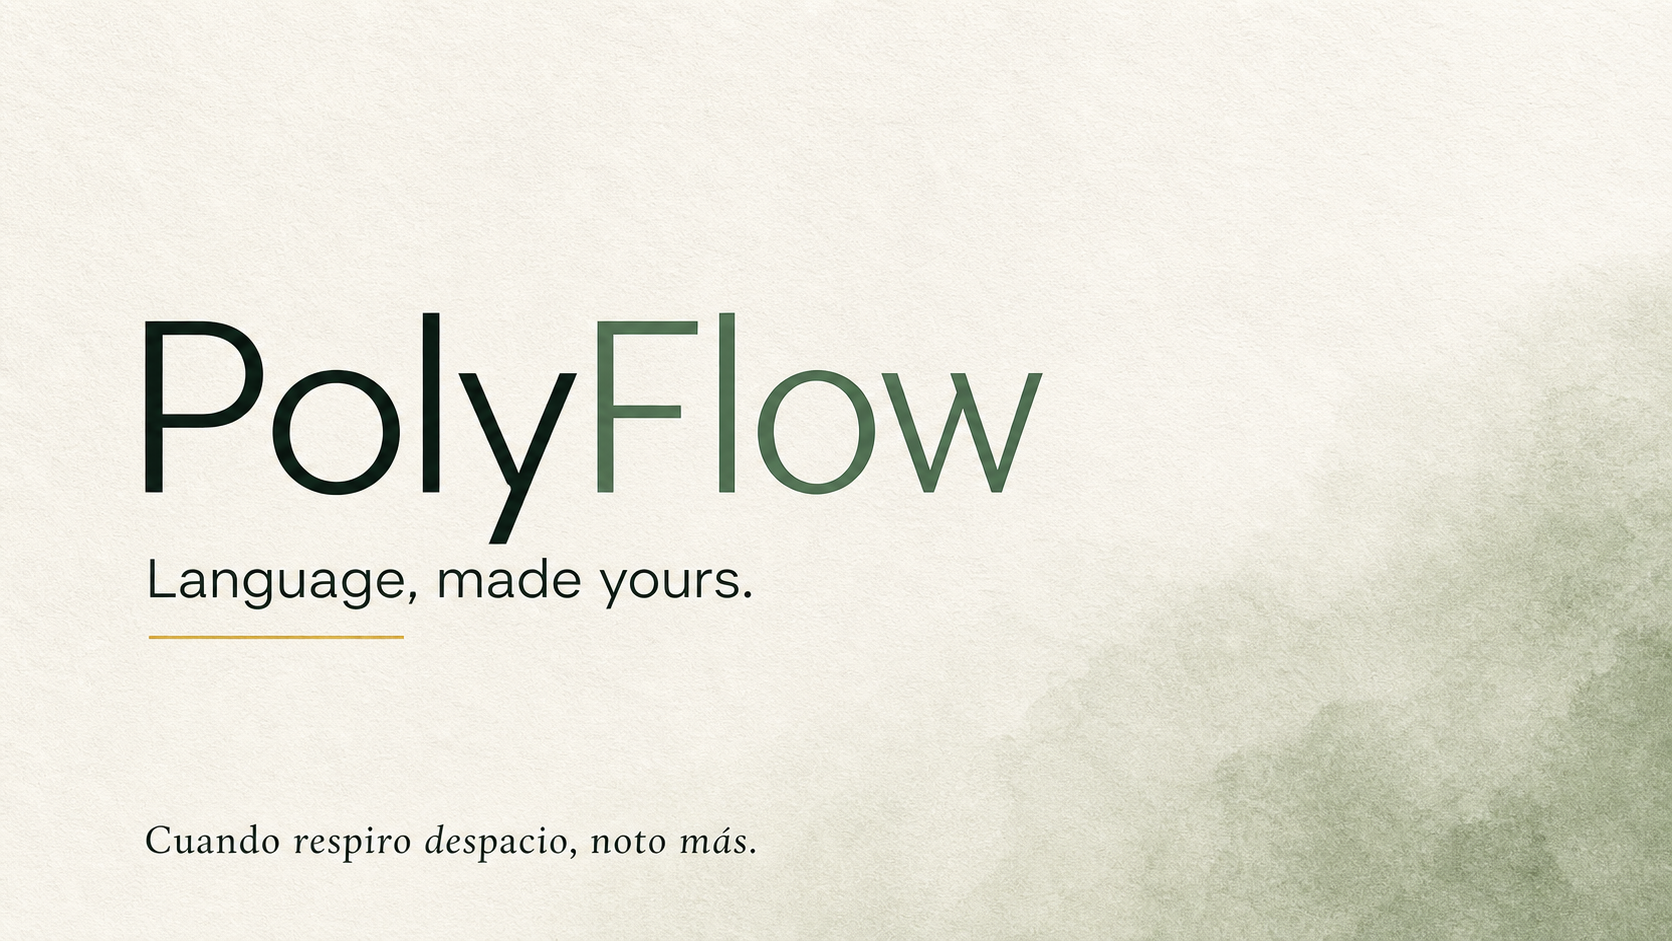
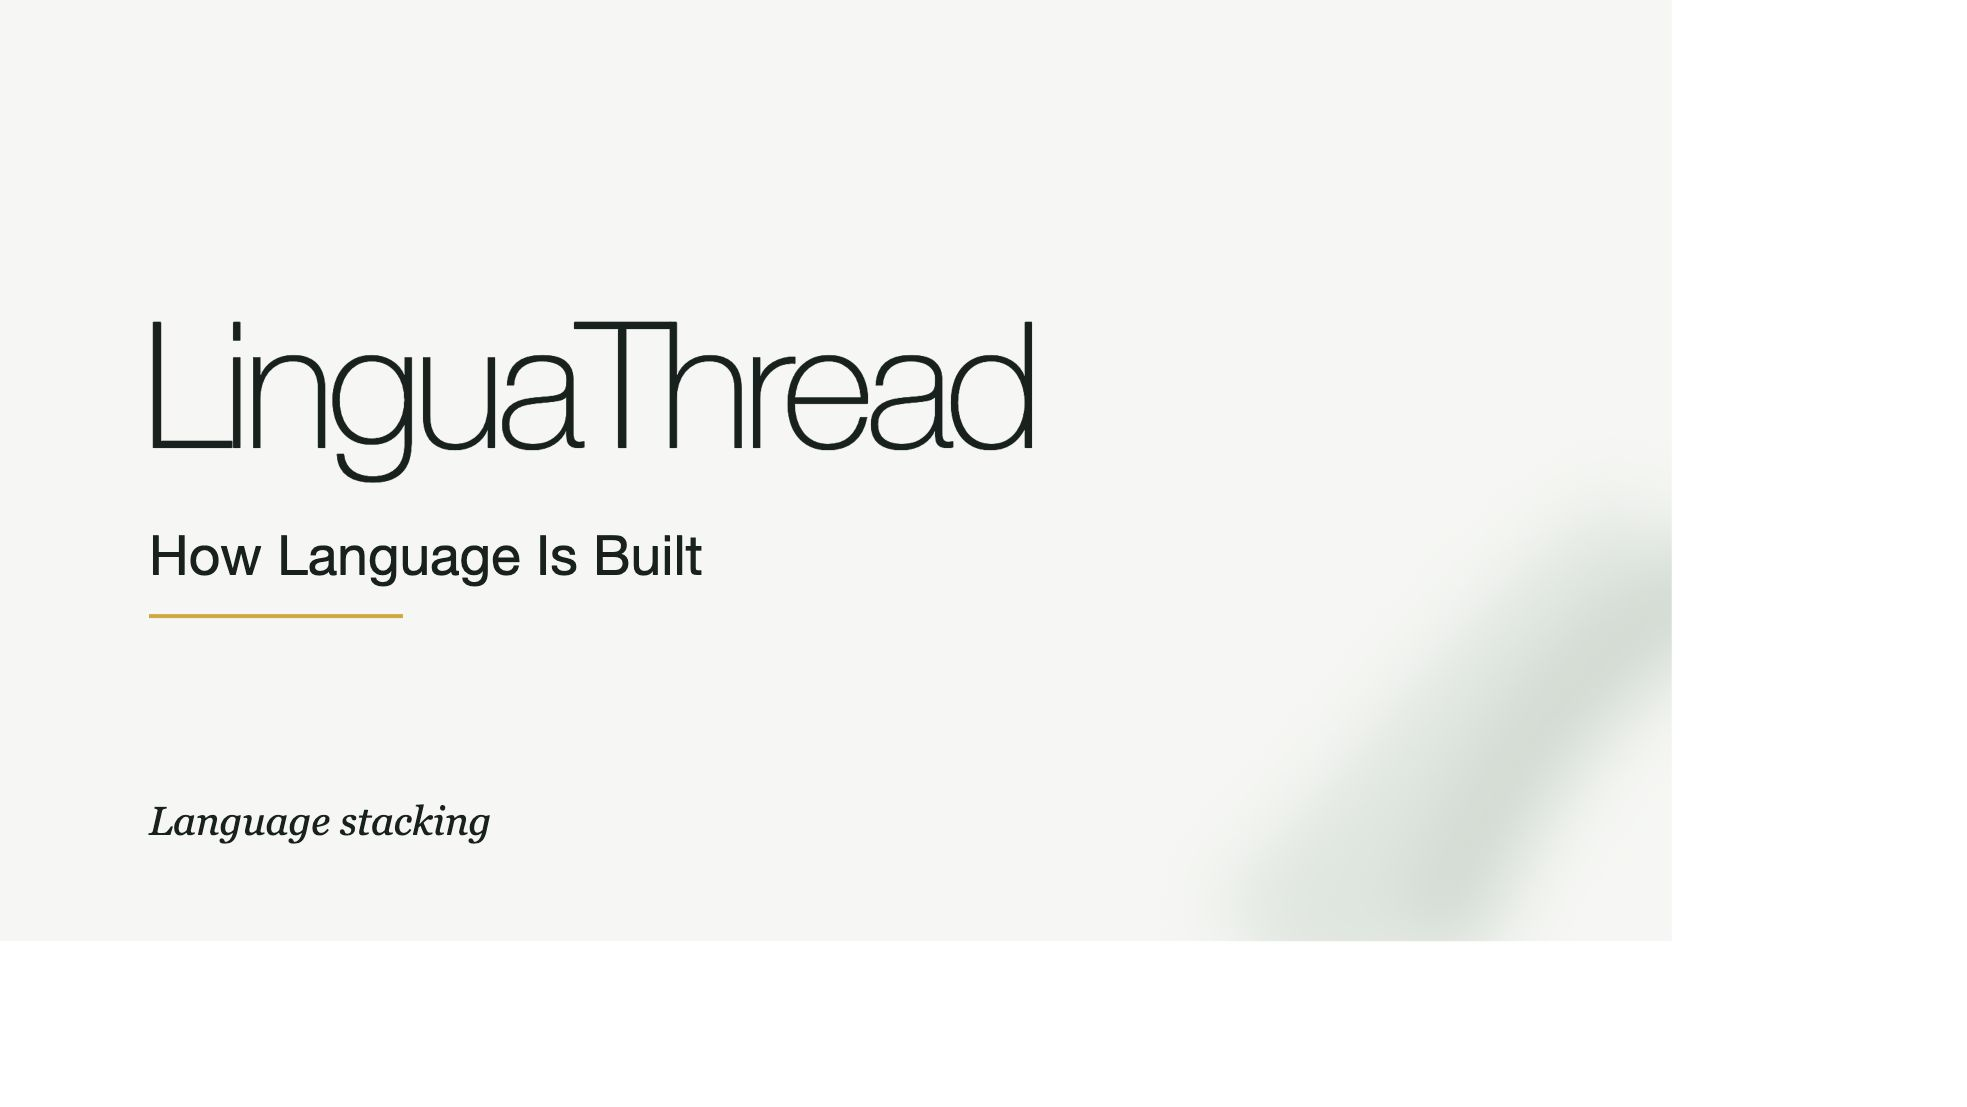
Rename PolyFlow to LinguaThread

diff --git a/app/page.tsx b/app/page.tsx
@@ -267,7 +267,7 @@ function Lesson({ profile, onEditLanguages }: { profile: LanguageProfile; onEdit
   return (
     <main className={`app-shell stage-${stage}`}>
       <header className="topline">
-        <button className="wordmark" onClick={() => resetLesson()} aria-label="Restart lesson">PolyFlow</button>
+        <button className="wordmark" onClick={() => resetLesson()} aria-label="Restart lesson">LinguaThread</button>
         <div className="lesson-context">
           <span className="language-mark">ES</span>
           <span>{lesson.level} · {lesson.unitTitle} · {String(lesson.lesson).padStart(2, "0")} · {sessionMode === "new" ? "New" : sessionMode === "review" ? "Review" : "Strengthen"}</span>
@@ -378,7 +378,7 @@ function Lesson({ profile, onEditLanguages }: { profile: LanguageProfile; onEdit
             )}
             {feedback === "gentle" && failedAttempts < 3 && accelerated && productionLanguage === "Spanish" && <Feedback kind="gentle" title="This foundation is worth making explicit." detail={lesson.mastery.hint} action="Learn the foundation" onClick={learnFoundation} />}
             {feedback === "gentle" && failedAttempts < 3 && !(accelerated && productionLanguage === "Spanish") && <Feedback kind="gentle" title={productionLanguage === "Spanish" ? lesson.mastery.hint : lesson.bridgeMastery.hint} detail={`${failedAttempts} of 3 attempts · Try once more from memory.`} action="Try again" onClick={() => resetAnswer()} />}
-            {feedback === "correct" && (productionLanguage === "Vietnamese" || !bridgeEnabled) && <Feedback kind="correct" title={productionLanguage === "Vietnamese" ? lesson.bridgeMastery.answer : lesson.mastery.answer} detail={accelerated ? "PolyFlow will move quickly until the work reveals your actual edge." : "You produced the meaning across every active learning language."} action="Complete lesson" onClick={finishLesson} />}
+            {feedback === "correct" && (productionLanguage === "Vietnamese" || !bridgeEnabled) && <Feedback kind="correct" title={productionLanguage === "Vietnamese" ? lesson.bridgeMastery.answer : lesson.mastery.answer} detail={accelerated ? "LinguaThread will move quickly until the work reveals your actual edge." : "You produced the meaning across every active learning language."} action="Complete lesson" onClick={finishLesson} />}
           </div>
         )}
 
@@ -387,7 +387,7 @@ function Lesson({ profile, onEditLanguages }: { profile: LanguageProfile; onEdit
             <div className="completion-mark" aria-hidden="true">✓</div>
             <p className="eyebrow">Lesson {lesson.lesson} mapped</p>
             <h1>{accelerated ? "This is already familiar." : lesson.title}</h1>
-            <p className="completion-copy">{accelerated ? "PolyFlow recorded this foundation as familiar and will keep raising the level." : lesson.completion}</p>
+            <p className="completion-copy">{accelerated ? "LinguaThread recorded this foundation as familiar and will keep raising the level." : lesson.completion}</p>
             <div className="learning-signal">
               <span>{accelerated ? "Advance quickly" : "Becoming stable"}</span>
               <strong>Spanish · {lesson.skill}</strong>
@@ -444,7 +444,7 @@ function LanguageSetup({ initialProfile, onComplete }: { initialProfile?: Langua
   return (
     <main className="app-shell setup-shell">
       <header className="topline setup-topline">
-        <span className="wordmark static-wordmark">PolyFlow</span>
+        <span className="wordmark static-wordmark">LinguaThread</span>
         <div className="lesson-context"><span>Your language stack</span></div>
         <span className="setup-step-count">{step + 1} of {totalSteps}</span>
       </header>
@@ -452,14 +452,14 @@ function LanguageSetup({ initialProfile, onComplete }: { initialProfile?: Langua
 
       <section className="lesson-stage setup-stage">
         {step === 0 && (
-          <SetupFrame eyebrow="Your native anchor" title="What language shaped your first thoughts?" description="PolyFlow uses your native language to make unfamiliar grammar immediately intelligible.">
+          <SetupFrame eyebrow="Your native anchor" title="What language shaped your first thoughts?" description="LinguaThread uses your native language to make unfamiliar grammar immediately intelligible.">
             <LanguagePicker selected={[native]} excluded={[]} onSelect={(language) => setNative(language)} />
             <button className="primary-action" onClick={() => { if (second === native) setSecond(null); setStep(1); }}>Continue <span aria-hidden="true">→</span></button>
           </SetupFrame>
         )}
 
         {step === 1 && (
-          <SetupFrame eyebrow="Another language you know" title="What language became yours next?" description="It does not need to be fluent. PolyFlow will use it only when it makes the new language clearer.">
+          <SetupFrame eyebrow="Another language you know" title="What language became yours next?" description="It does not need to be fluent. LinguaThread will use it only when it makes the new language clearer.">
             <LanguagePicker selected={second ? [second] : []} excluded={[native]} onSelect={(language) => setSecond(language)} />
             {second && <ConfidencePicker value={secondConfidence} onChange={setSecondConfidence} />}
             <button className="primary-action" onClick={() => setStep(2)}>Continue <span aria-hidden="true">→</span></button>
@@ -489,14 +489,14 @@ function LanguageSetup({ initialProfile, onComplete }: { initialProfile?: Langua
               {second && <ProfileLanguage index="02" role="Supporting bridge" language={second} detail={confidenceLabels[secondConfidence]} />}
               {additional.map((language, index) => <ProfileLanguage key={language} index={String(index + (second ? 3 : 2)).padStart(2, "0")} role={index === additional.length - 1 ? "Growing edge" : "Additional bridge"} language={language} />)}
             </div>
-            <p className="setup-description ready-description">PolyFlow will begin with essential {target} vocabulary and place it into daily conversation. Every explanation stays grounded in {native}; other languages appear only when they provide a useful bridge.</p>
+            <p className="setup-description ready-description">LinguaThread will begin with essential {target} vocabulary and place it into daily conversation. Every explanation stays grounded in {native}; other languages appear only when they provide a useful bridge.</p>
             <button className="primary-action" onClick={() => onComplete({ native, second, secondConfidence: second ? secondConfidence : null, additional })}>{initialProfile ? "Save language stack" : "Begin with foundations"} <span aria-hidden="true">→</span></button>
             <button className="text-action" onClick={() => setStep(0)}>Edit my languages</button>
           </div>
         )}
       </section>
 
-      <footer className="lesson-footer"><span>Language begins from what you already know</span><span>No placement paperwork · PolyFlow learns as you learn</span></footer>
+      <footer className="lesson-footer"><span>Language begins from what you already know</span><span>How Language Is Built · Language stacking</span></footer>
     </main>
   );
 }

diff --git a/app/layout.tsx b/app/layout.tsx
@@ -13,18 +13,18 @@ const geistMono = Geist_Mono({
 });
 
 export const metadata: Metadata = {
-  metadataBase: new URL(`https://${process.env.VERCEL_PROJECT_PRODUCTION_URL || "polyflow.vercel.app"}`),
-  title: "PolyFlow · Language, made yours",
-  description: "A contemplative language practice built on vocabulary, structure, and meaningful use.",
+  metadataBase: new URL(`https://${process.env.VERCEL_PROJECT_PRODUCTION_URL || "polyflow-language.vercel.app"}`),
+  title: "LinguaThread · How Language Is Built",
+  description: "A contemplative language practice built through language stacking, structure, and meaningful use.",
   openGraph: {
-    title: "PolyFlow · Language, made yours",
-    description: "A contemplative language practice built on vocabulary, structure, and meaningful use.",
-    images: [{ url: "/og.png", width: 1672, height: 941, alt: "PolyFlow · Language, made yours" }],
+    title: "LinguaThread · How Language Is Built",
+    description: "A contemplative language practice built through language stacking, structure, and meaningful use.",
+    images: [{ url: "/og.png", width: 1672, height: 941, alt: "LinguaThread · How Language Is Built" }],
   },
   twitter: {
     card: "summary_large_image",
-    title: "PolyFlow · Language, made yours",
-    description: "A contemplative language practice built on vocabulary, structure, and meaningful use.",
+    title: "LinguaThread · How Language Is Built",
+    description: "A contemplative language practice built through language stacking, structure, and meaningful use.",
     images: ["/og.png"],
   },
   icons: {

diff --git a/README.md b/README.md
@@ -1,8 +1,10 @@
-# PolyFlow
+# LinguaThread
 
-PolyFlow is a calm, text-first multilingual expression engine built around language stacking. It uses a native language as the anchor and actively develops every additional language through vocabulary, structural comparison, sentence production, grammar, transformation, and review.
+**How Language Is Built**
 
-The initial curriculum teaches Spanish with English as the native anchor and Vietnamese as an active supporting language. Its level architecture follows CEFR from A1 through C2 while retaining PolyFlow's own pedagogy.
+LinguaThread is a calm, text-first multilingual expression engine built around the method of **language stacking**. It uses a native language as the anchor and actively develops every additional language through vocabulary, structural comparison, sentence production, grammar, transformation, and review.
+
+The initial curriculum teaches Spanish with English as the native anchor and Vietnamese as an active supporting language. Its level architecture follows CEFR from A1 through C2 while retaining LinguaThread's own pedagogy.
 
 ## Local development
 
@@ -11,7 +13,7 @@ npm install
 npm run dev
 ```
 
-PolyFlow works without a database by keeping the language profile and completed lessons in the browser. To sync progress through the API, create a Neon or Vercel Postgres database, run `drizzle/0002_vercel_postgres.sql`, and set `DATABASE_URL` from `.env.example`.
+LinguaThread works without a database by keeping the language profile and completed lessons in the browser. To sync progress through the API, create a Neon or Vercel Postgres database, run `drizzle/0002_vercel_postgres.sql`, and set `DATABASE_URL` from `.env.example`.
 
 ## Curriculum publishing
 
@@ -22,11 +24,11 @@ The app ships with an offline foundation and loads additional versioned curricul
 3. Run `npm run curriculum:validate`.
 4. Publish the data commit to the `curriculum-data` branch.
 
-PolyFlow validates the manifest and every pack before merging lessons. Invalid or unreachable remote content is never shown; the bundled course remains available.
+LinguaThread validates the manifest and every pack before merging lessons. Invalid or unreachable remote content is never shown; the bundled course remains available.
 
 ## Interactive sentence anatomy
 
-Every shipped lesson now enters PolyFlow's Interactive Sentence Model at its sentence stage. The curriculum baseline is derived from the lesson's reviewed target, anchor, bridge, vocabulary, and pattern data; a lesson can supply a richer `anatomy` object when a particular construction deserves deeper editorial treatment. Author those objects in `app/interactive-sentence.ts` (or a future versioned curriculum pack) rather than embedding explanations in presentation components.
+Every shipped lesson now enters LinguaThread's Interactive Sentence Model at its sentence stage. The curriculum baseline is derived from the lesson's reviewed target, anchor, bridge, vocabulary, and pattern data; a lesson can supply a richer `anatomy` object when a particular construction deserves deeper editorial treatment. Author those objects in `app/interactive-sentence.ts` (or a future versioned curriculum pack) rather than embedding explanations in presentation components.
 
 The model keeps realizations, sentence units, relationships, cross-language mappings, and related patterns separate. Units may include multiple visible segments or be marked implied or omitted; mappings can be one-to-one, reordered, structural, expanded, or implicit. The interface only shows concepts that have authored data.
 
